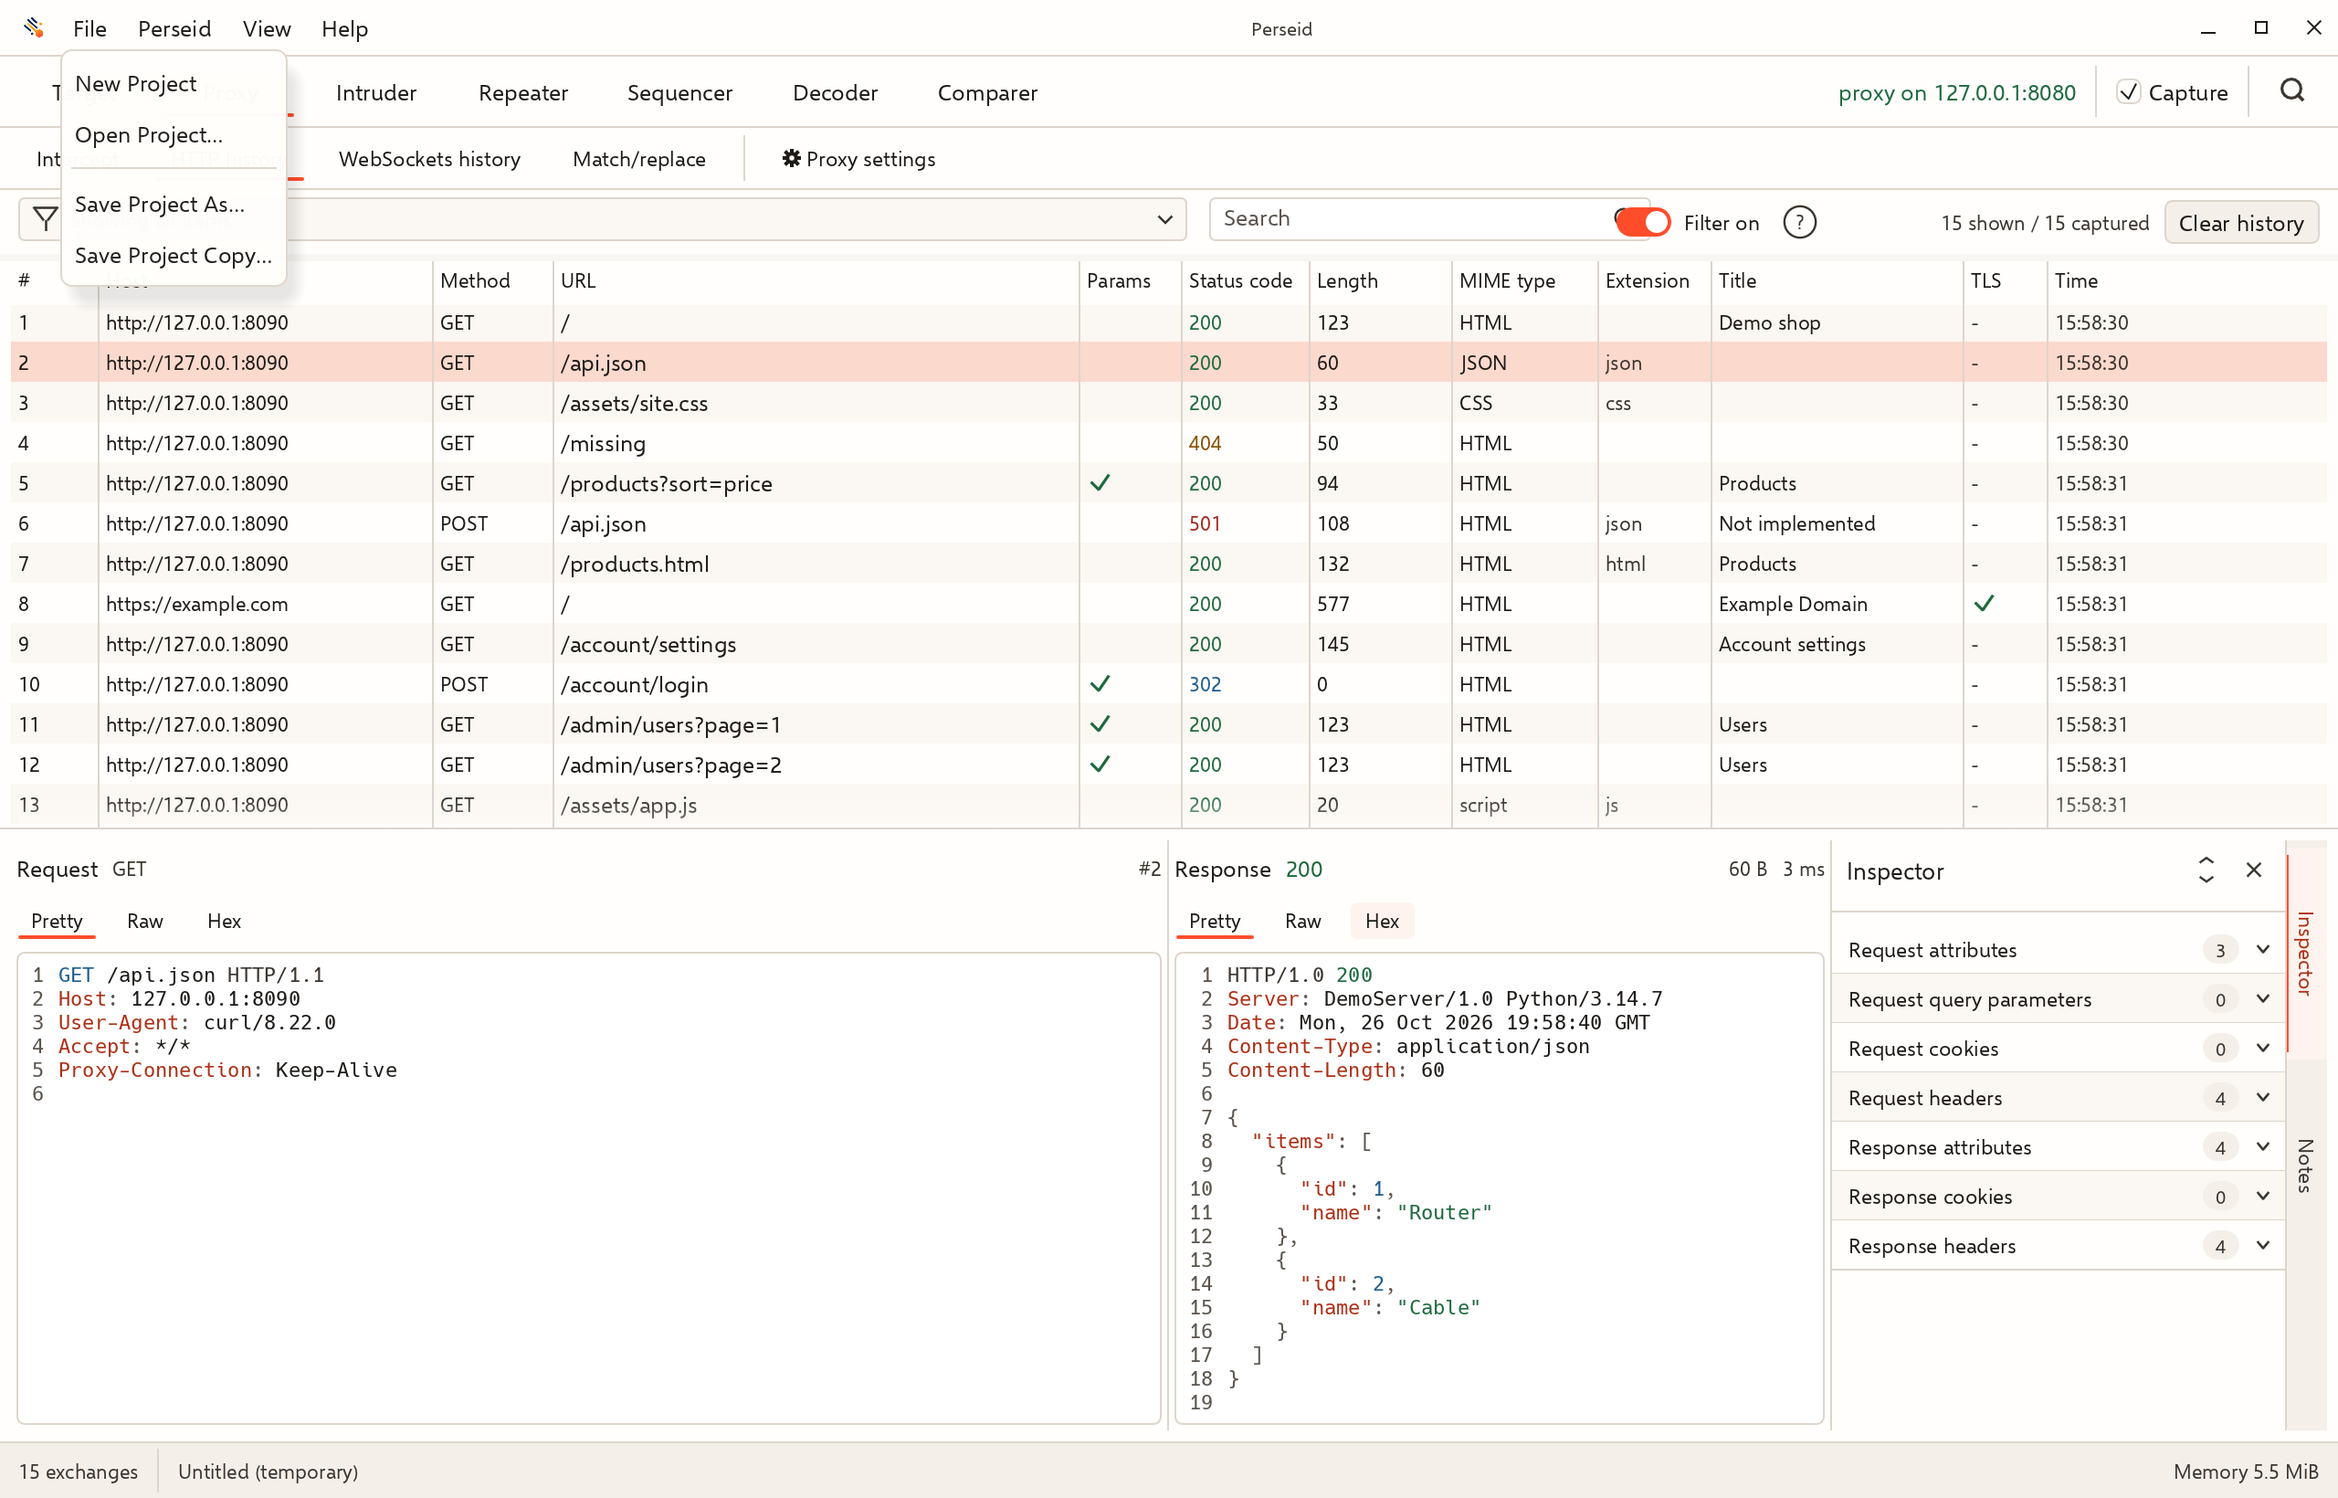
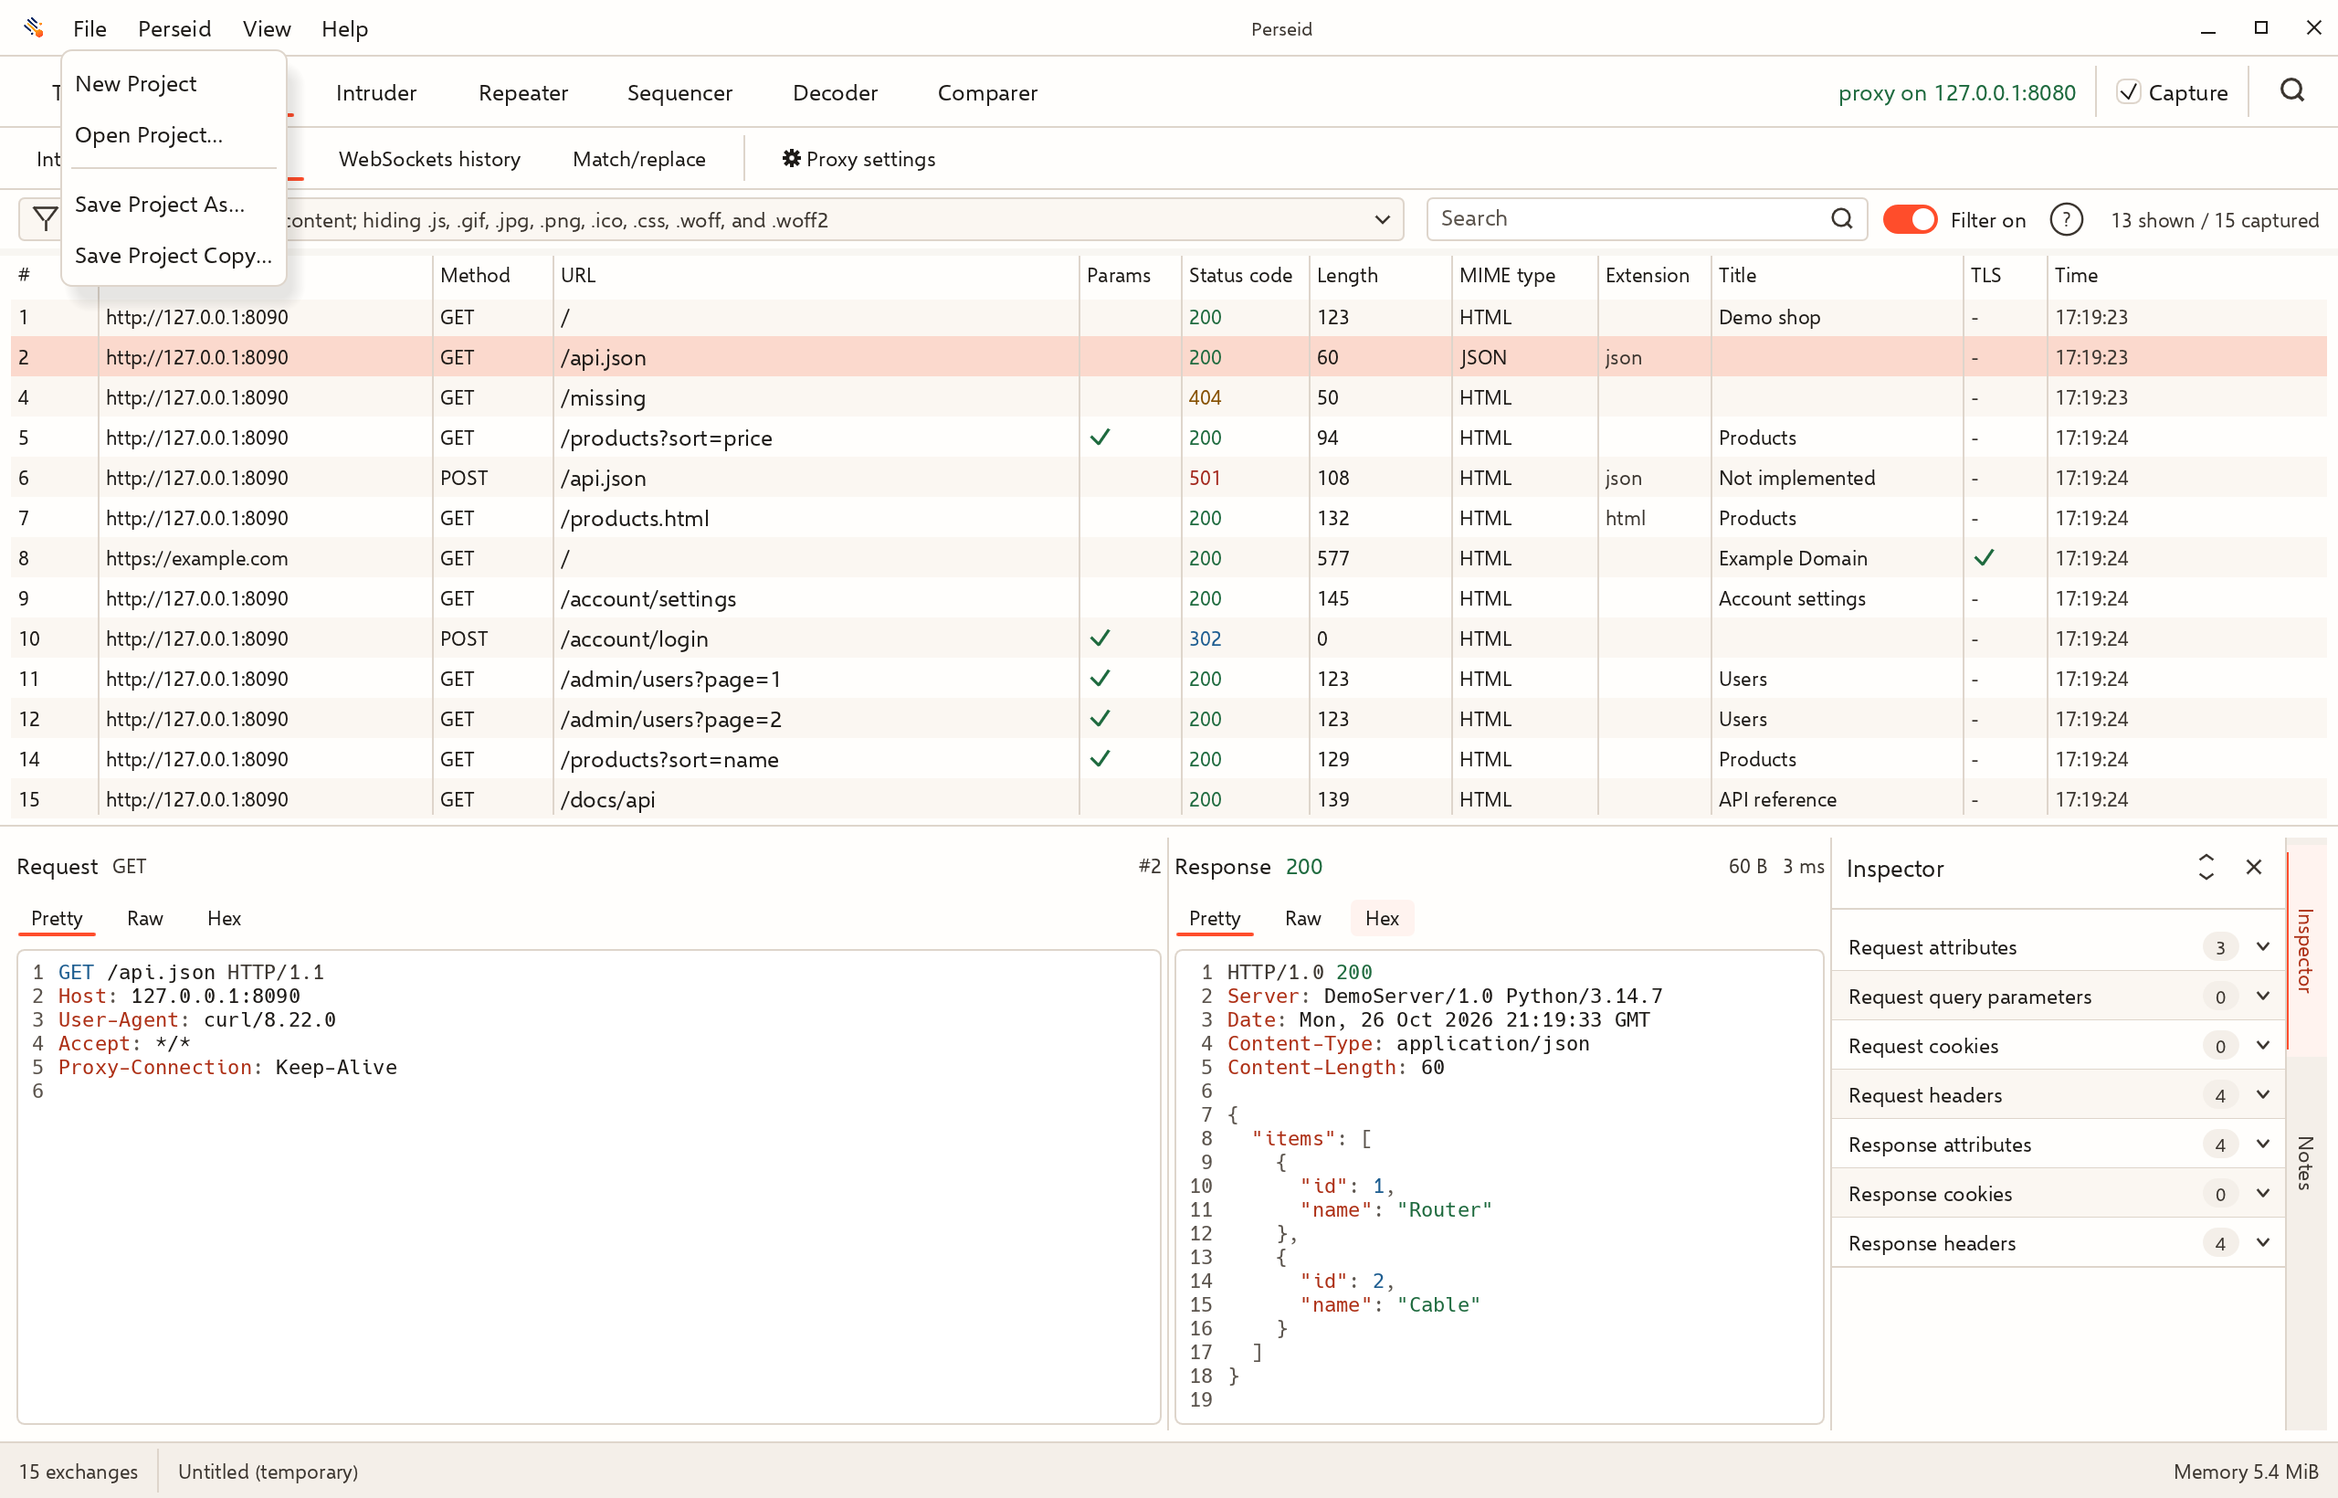
Match Burp's default HTTP history filters
Hide CSS, images, and common static extensions in the initial history view, matching Burp's filter defaults. Lay out the toolbar from the right so the summary bar shrinks rather than letting the search field and filter switch collide, and move Clear history into the row context menu to free toolbar space.

diff --git a/crates/perseid/src/app/history_filter.rs b/crates/perseid/src/app/history_filter.rs
@@ -56,7 +56,9 @@ pub(super) struct HistoryFilter {
 
 impl Default for HistoryFilter {
     fn default() -> Self {
-        Self::SHOW_ALL
+        // Keep the initial history view aligned with Burp's default display
+        // filter instead of showing every static asset.
+        Self::from_workspace(&HistoryFilterWorkspace::default())
     }
 }
 
@@ -555,35 +557,11 @@ fn truncate_summary(text: &str) -> String {
 impl PerseidApp {
     /// Toolbar above the HTTP history table.
     pub(super) fn history_toolbar(&mut self, ui: &mut egui::Ui) {
-        let mut clear = false;
         let mut open_filter = false;
         ui.horizontal(|ui| {
-            let available = ui.available_width();
-            let summary_width = (available - 620.0).clamp(200.0, 900.0);
-            let summary = self.history_filter_summary();
-            if history_filter_bar(ui, summary_width, &summary).clicked() {
-                open_filter = true;
-            }
-            ui.add_space(4.0);
-
-            if history_search_field(ui, &mut self.filter, egui::Id::unique(FILTER_ID)) {
-                self.visible_key = None;
-            }
-
-            let switch = filter_switch(ui, &mut self.history_filter.enabled);
-            if switch.changed() {
-                self.visible_key = None;
-            }
-            filter_help_badge(ui);
-
+            // Lay the row out from the right so the width-hungry summary bar
+            // can shrink without colliding with the search field or switch.
             ui.with_layout(egui::Layout::right_to_left(egui::Align::Center), |ui| {
-                if ui
-                    .button("Clear history")
-                    .on_hover_text("Discard all captured exchanges")
-                    .clicked()
-                {
-                    clear = true;
-                }
                 ui.label(
                     RichText::new(format!(
                         "{} shown / {} captured",
@@ -593,14 +571,28 @@ impl PerseidApp {
                     .small()
                     .color(theme::TEXT_MUTED),
                 );
+                ui.add_space(4.0);
+                filter_help_badge(ui);
+
+                let switch = filter_switch(ui, &mut self.history_filter.enabled);
+                if switch.changed() {
+                    self.visible_key = None;
+                }
+
+                if history_search_field(ui, &mut self.filter, egui::Id::unique(FILTER_ID)) {
+                    self.visible_key = None;
+                }
+                ui.add_space(4.0);
+
+                let summary = self.history_filter_summary();
+                if history_filter_bar(ui, ui.available_width(), &summary).clicked() {
+                    open_filter = true;
+                }
             });
         });
 
         if open_filter {
             self.history_filter_draft = Some(self.history_filter.clone());
-        }
-        if clear {
-            self.clear_history();
         }
     }
 
@@ -941,7 +933,10 @@ fn history_search_field(ui: &mut egui::Ui, text: &mut String, id: egui::Id) -> b
         egui::pos2(rect.left() + 8.0, rect.top() + 3.0),
         egui::pos2(rect.right() - 27.0, rect.bottom() - 3.0),
     );
-    let response = ui.put(
+    // Place the editor without advancing the manual layout cursor. `put`
+    // would move the cursor to the editor's right edge and make the next
+    // toolbar item overlap the search field.
+    let response = ui.place(
         edit_rect,
         egui::TextEdit::singleline(text)
             .id(id)
@@ -1148,8 +1143,52 @@ mod tests {
     }
 
     #[test]
-    fn show_all_matches_everything_by_default() {
+    fn default_filter_matches_burp_and_hides_static_assets() {
         let filter = HistoryFilter::default();
+        assert!(filter.enabled);
+        assert!(!filter.is_show_all());
+        assert!(!filter.show_css);
+        assert!(!filter.show_images);
+        assert!(filter.extension_hide_enabled);
+        assert_eq!(filter.extension_hide, "js,gif,jpg,png,ico,css,woff,woff2");
+
+        let html = with_response(item("GET", "example.com", "/"), 200, "text/html", b"");
+        let css = with_response(
+            item("GET", "example.com", "/site.css"),
+            200,
+            "text/css",
+            b"",
+        );
+        let image = with_response(
+            item("GET", "example.com", "/logo.png"),
+            200,
+            "image/png",
+            b"",
+        );
+        let script = with_response(
+            item("GET", "example.com", "/assets/app.js"),
+            200,
+            "application/javascript",
+            b"",
+        );
+        let json = with_response(
+            item("GET", "example.com", "/api.json"),
+            200,
+            "application/json",
+            b"",
+        );
+        assert!(matches(&filter, &html));
+        assert!(!matches(&filter, &css));
+        assert!(!matches(&filter, &image));
+        assert!(!matches(&filter, &script));
+        assert!(matches(&filter, &json));
+        assert!(filter.summary().contains("Hiding CSS and image content"));
+        assert!(filter.summary().contains("hiding .js"));
+    }
+
+    #[test]
+    fn show_all_matches_everything() {
+        let filter = HistoryFilter::SHOW_ALL;
         assert!(filter.is_show_all());
         assert_eq!(filter.summary(), "Showing all items");
         assert!(matches(&filter, &item("GET", "example.com", "/")));
@@ -1504,10 +1543,12 @@ mod tests {
         assert_eq!(HistoryFilter::from_workspace(&workspace), filter);
 
         let default = HistoryFilterWorkspace::default();
-        assert_eq!(
-            HistoryFilter::from_workspace(&default),
-            HistoryFilter::SHOW_ALL
-        );
+        let restored = HistoryFilter::from_workspace(&default);
+        assert_eq!(restored, HistoryFilter::default());
+        assert!(!restored.is_show_all());
+        assert!(!restored.show_css);
+        assert!(!restored.show_images);
+        assert!(restored.extension_hide_enabled);
     }
 
     #[test]

diff --git a/crates/perseid/src/project/records.rs b/crates/perseid/src/project/records.rs
@@ -442,6 +442,9 @@ pub enum SideTabRecord {
     Notes,
 }
 
+/// Burp hides these static asset extensions by default.
+const BURP_HIDDEN_EXTENSIONS: &str = "js,gif,jpg,png,ico,css,woff,woff2";
+
 /// Burp-style HTTP history display filter, persisted with the project.
 #[derive(Clone, Debug, Serialize, Deserialize, PartialEq, Eq)]
 pub struct HistoryFilterWorkspace {
@@ -459,11 +462,11 @@ pub struct HistoryFilterWorkspace {
     pub show_script: bool,
     #[serde(default = "default_true")]
     pub show_xml: bool,
-    #[serde(default = "default_true")]
+    #[serde(default)]
     pub show_css: bool,
     #[serde(default = "default_true")]
     pub show_other_text: bool,
-    #[serde(default = "default_true")]
+    #[serde(default)]
     pub show_images: bool,
     #[serde(default = "default_true")]
     pub show_flash: bool,
@@ -489,10 +492,14 @@ pub struct HistoryFilterWorkspace {
     pub extension_show_only_enabled: bool,
     #[serde(default)]
     pub extension_show_only: String,
-    #[serde(default)]
+    #[serde(default = "default_true")]
     pub extension_hide_enabled: bool,
-    #[serde(default)]
+    #[serde(default = "default_hidden_extensions")]
     pub extension_hide: String,
+}
+
+fn default_hidden_extensions() -> String {
+    BURP_HIDDEN_EXTENSIONS.to_string()
 }
 
 impl Default for HistoryFilterWorkspace {
@@ -505,9 +512,9 @@ impl Default for HistoryFilterWorkspace {
             show_html: true,
             show_script: true,
             show_xml: true,
-            show_css: true,
+            show_css: false,
             show_other_text: true,
-            show_images: true,
+            show_images: false,
             show_flash: true,
             show_other_binary: true,
             show_2xx: true,
@@ -520,8 +527,8 @@ impl Default for HistoryFilterWorkspace {
             search_negative: false,
             extension_show_only_enabled: false,
             extension_show_only: String::new(),
-            extension_hide_enabled: false,
-            extension_hide: String::new(),
+            extension_hide_enabled: true,
+            extension_hide: default_hidden_extensions(),
         }
     }
 }
@@ -1290,6 +1297,13 @@ mod tests {
         assert_eq!(decoded.intruder.concurrency, 4);
         assert_eq!(decoded.comparer, [vec![1, 2, 3]]);
         assert_eq!(decoded.ui, UiWorkspace::default());
+        assert!(!decoded.ui.history_filter.show_css);
+        assert!(!decoded.ui.history_filter.show_images);
+        assert!(decoded.ui.history_filter.extension_hide_enabled);
+        assert_eq!(
+            decoded.ui.history_filter.extension_hide,
+            "js,gif,jpg,png,ico,css,woff,woff2"
+        );
         assert_eq!(decoded.inspector, InspectorWorkspace::default());
         assert_eq!(decoded.comparer_ui, ComparerWorkspace::default());
         assert_eq!(decoded.search, SearchWorkspace::default());

diff --git a/crates/perseid/src/app/proxy.rs b/crates/perseid/src/app/proxy.rs
@@ -24,6 +24,7 @@ enum HistoryRowAction {
     Sequencer,
     ComparerRequest,
     ComparerResponse,
+    ClearHistory,
 }
 
 impl PerseidApp {
@@ -822,6 +823,15 @@ impl PerseidApp {
                                 ui.close();
                             }
                             super::curl::context_menu(ui, item);
+                            ui.separator();
+                            if ui
+                                .button("Clear history")
+                                .on_hover_text("Discard all captured exchanges")
+                                .clicked()
+                            {
+                                action = Some(HistoryRowAction::ClearHistory);
+                                ui.close();
+                            }
                         });
                     });
                 });
@@ -840,6 +850,7 @@ impl PerseidApp {
             Some(HistoryRowAction::ComparerResponse) => {
                 self.send_selected_to_comparer(MessagePane::Response);
             }
+            Some(HistoryRowAction::ClearHistory) => self.clear_history(),
             None => {}
         }
     }

diff --git a/crates/perseid/src/app/screenshots.rs b/crates/perseid/src/app/screenshots.rs
@@ -295,7 +295,7 @@ impl PerseidApp {
         self.inspector.reset();
         self.filter.clear();
         self.visible_key = None;
-        self.history_filter = HistoryFilter::SHOW_ALL;
+        self.history_filter = HistoryFilter::default();
         self.history_filter_draft = None;
         self.title_cache.borrow_mut().clear();
         self.selected = Some(2);

diff --git a/docs/workbench.md b/docs/workbench.md
@@ -137,15 +137,17 @@ is a quick way to verify the path without a browser or CA trust.
 
 - **HTTP history** has one row per HTTP exchange, including decrypted HTTPS.
   `CONNECT` transport tunnels do not get their own rows. Right-click a row to
-  send its request or response to Repeater, Intruder, or Comparer, or send its
-  response to Sequencer.
+  send its request or response to Repeater, Intruder, or Comparer, send its
+  response to Sequencer, or **Clear history**.
 - The text filter matches method, host, path, URI, status, MIME type, and file
   extension—not response-body contents. The filter bar opens a Burp-style
   display-filter dialog with in-scope, missing-response, parameterized-request,
   MIME class, status class, regex or negative search, and file-extension
-  controls. The **Filter on** switch temporarily disables every display filter.
-  Filters only hide rows; captured exchanges stay in the project. Scope
-  filtering can narrow the view further.
+  controls. Like Burp, the default filter hides CSS and image responses plus
+  common static extensions (`.js`, `.gif`, `.jpg`, `.png`, `.ico`, `.css`,
+  `.woff`, and `.woff2`). The **Filter on** switch temporarily disables every
+  display filter. Filters only hide rows; captured exchanges stay in the
+  project. Scope filtering can narrow the view further.
 - **Capture** pauses recording of new exchanges, not forwarding or interception.
 - The in-memory history view is bounded by exchange count and retained-body
   bytes. These limits evict rows from the UI cache; they do not cap the temporary

diff --git a/docs/screenshots.md b/docs/screenshots.md
@@ -25,6 +25,8 @@ on the right and per-exchange Notes behind its rail tab. The detail split
 defaults to roughly half of the workspace. The filter bar above the table opens
 Burp-style display filters for scope, MIME and status classes, search terms, and
 file extensions; the search field beside it narrows the visible rows directly.
+As in Burp, CSS and image responses plus common static extensions are hidden by
+default.
 
 ![Proxy HTTP history with request and response detail and the Inspector side panel](images/perseid-main.png)
 
